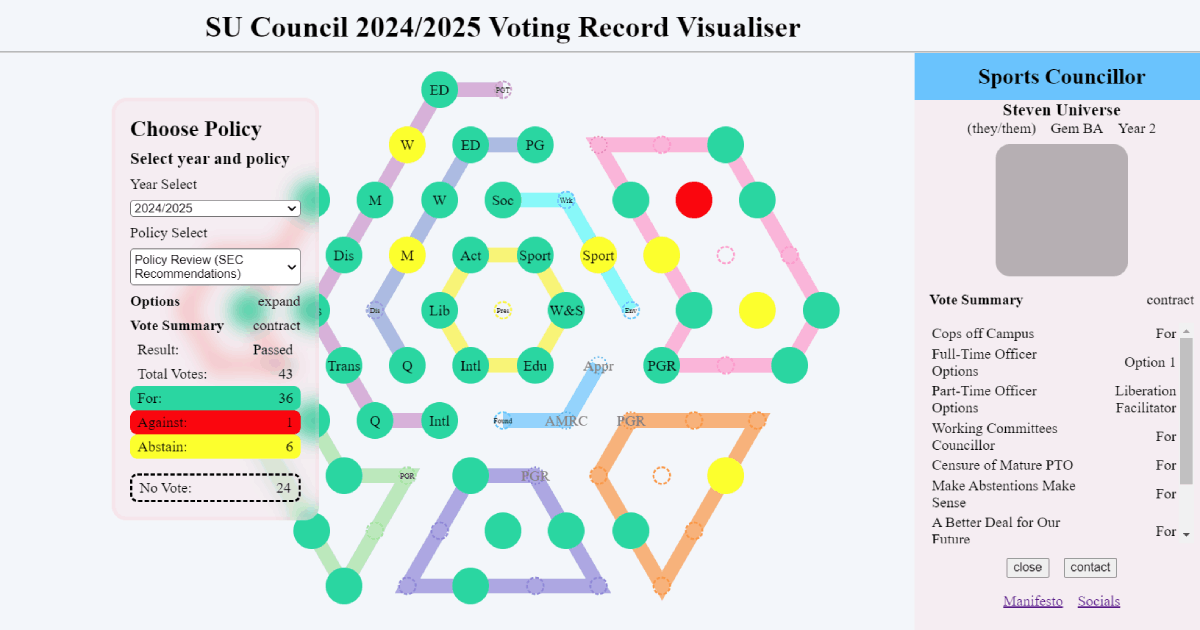
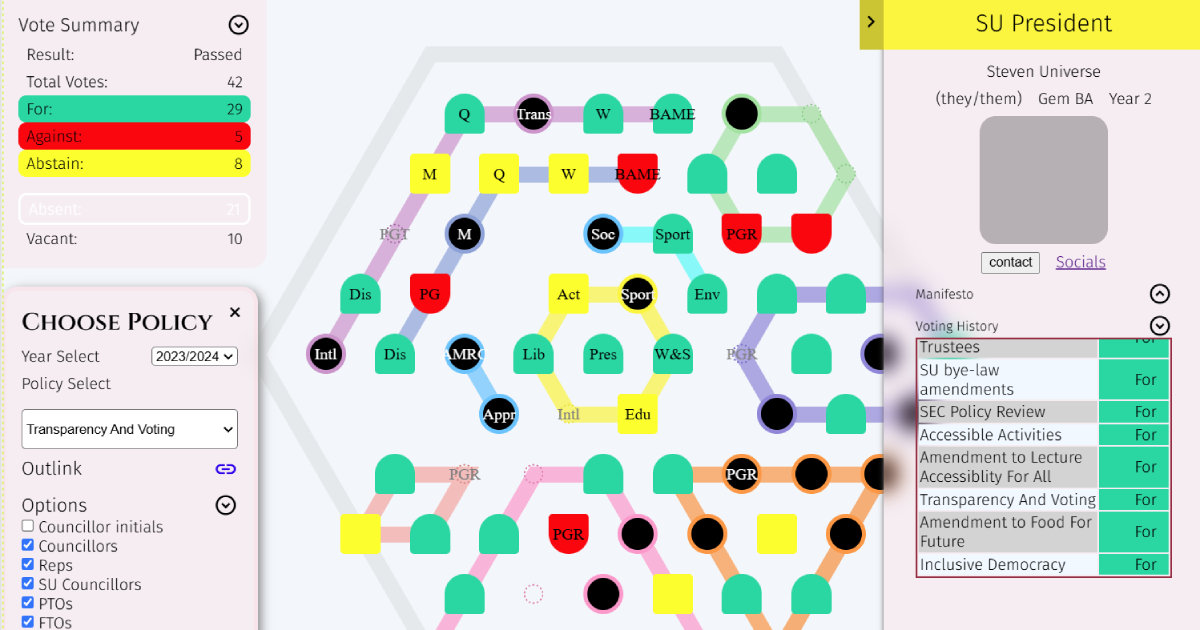
Add new group ui and preview image

diff --git a/index.html b/index.html
@@ -57,7 +57,6 @@
     <main class="scroller">
         <header>
             <h1 class="cinzel-display-title">SU Council Voting Record Visualiser</h1>
-            <hr>
         </header>
         <section id="summary" class="frosted draggable-panel">
             <button id="summary-close-button">
@@ -86,7 +85,6 @@
                 </div>
                 <!-- <p id="policy-description">blah blah blah</p> -->
             </section>
-
             <section id="toggles">
                 <div class="header-container" id="toggles-header" role="button" tabindex="0">
                     <h3>Options</h3>
@@ -129,8 +127,6 @@
                     </div>
                 </div>
             </section>
-
-
         </section>
         <section id="visual-container">
             <div id="vote-summary" class="frosted display-hidden">
@@ -220,15 +216,15 @@
                     </div>
                 </div>
             </section>
+            <div id="policy-name-container">
+                <p id="policy-name"></p>
+            </div>
         </section>
-
-
         <div id="overlay" class="display-hidden">
             <p id="overlay-role"></p>
             <p id="overlay-type"></p>
             <p id="overlay-vote" class="vote-text"></p>
         </div>
-
         <script type="module" src="js/panel.js" defer></script>
         <footer id="footer">
             <p>Data retrieved from <a href="https://docs.google.com/spreadsheets/d/1dJyH0pIN5il3tXYj-UPCyQHkHfwy7u6_vEKmcm1xsLY">Sheffield Students' Union</a>, </p>

diff --git a/js/selector.js b/js/selector.js
@@ -42,16 +42,18 @@ try {
     // (Note: the exact output may be browser-dependent)
   }
 
-
+const policyName = document.getElementById("policy-name")
 policySelector.addEventListener("change", (e) => {
     // If no policy is selected, clear vote classes
     const councillors = Councillor.list;
     if(e.target.value == "none") {
+        policyName.innerText = "";
         for(const c of councillors) {
             c.classList.toggle("vacant", c.isVacant)
             c.clearVoteClasses();
         }
     } else {
+        policyName.innerText = records[yearSelector.value][e.target.value].name;
         for(const c of councillors) {
             // c.classList.toggle("vacant", c.isCurrentlyVacant)
             c.vote = e.target.value;
@@ -81,6 +83,7 @@ yearSelector.addEventListener("change", (e) => {
     generatePolicyOptions(yearSelector.value);
     setCouncillorClickBehaviour();
     policySelector.dispatchEvent(new Event('change'))
+    policyName.innerText = "";
 })
 
 console.log("Selector Loaded");

diff --git a/js/summary.js b/js/summary.js
@@ -120,7 +120,7 @@ policySelector.addEventListener("change", (e) => {
     // Last Row: Total vacant seats
     let vacantTotal = 0;
     for (let i = 0; i< Councillor.list.length; i++) {
-        if(Councillor.list[i].isVacant || record.votes[i] == "") { vacantTotal++; }
+        if(Councillor.list[i].isCurrentlyVacant || record.votes[i] == "") { vacantTotal++; }
     }
     item = setItem("Vacant", vacantTotal, "vote-vacant");
     // item.classList.add(vote);

diff --git a/css/vote.css b/css/vote.css
@@ -54,6 +54,8 @@ p.vote-text {
     --vote-colour: var(--absent-colour);
     /* border-width: 0.125em; */
     color: black;
+    background-color: black;
+    color: white;
 }
 
 .member.vote-absent:hover {
@@ -61,7 +63,8 @@ p.vote-text {
 }
 
 .member.vote-absent {
-    transform: scale(0.5);
+    background-color: black;
+    /* transform: scale(0.5); */
 }
 
 .vote-option-1 {

diff --git a/css/councillor-panel.css b/css/councillor-panel.css
@@ -150,7 +150,15 @@
     text-align: left;
     width:20ch;
 }
-
+@media only screen and (min-width: 500px) {
+    #policy-name-container {
+        justify-content: unset;
+        bottom: 2em;
+    }
+    #policy-name-container p {
+        padding-left: 2em;
+    }
+}
 @media only screen and (min-width: 600px) {
     .side-panel {
         bottom: unset;

diff --git a/css/core.css b/css/core.css
@@ -9,6 +9,14 @@ body {
     font-size: 0.6em;
 }
 
+#policy-name-container {
+    position: absolute;
+    bottom: 4em;
+    width: 100%;
+    display: flex;
+    justify-content: center;
+}
+
 #content_wrapper {
     /* height: 100svh; */
     --highlight-colour: rgb(179, 228, 255);

diff --git a/css/grouping.css b/css/grouping.css
@@ -63,6 +63,10 @@ svg#grids {
     --group-colour: var(--soc-sci-colour);
 }
 
+.group-grey {
+    --group-colour: rgba(168, 168, 168, 0.249);
+}
+
 .group-fto {
     --group-colour: var(--fto-colour);
 }
